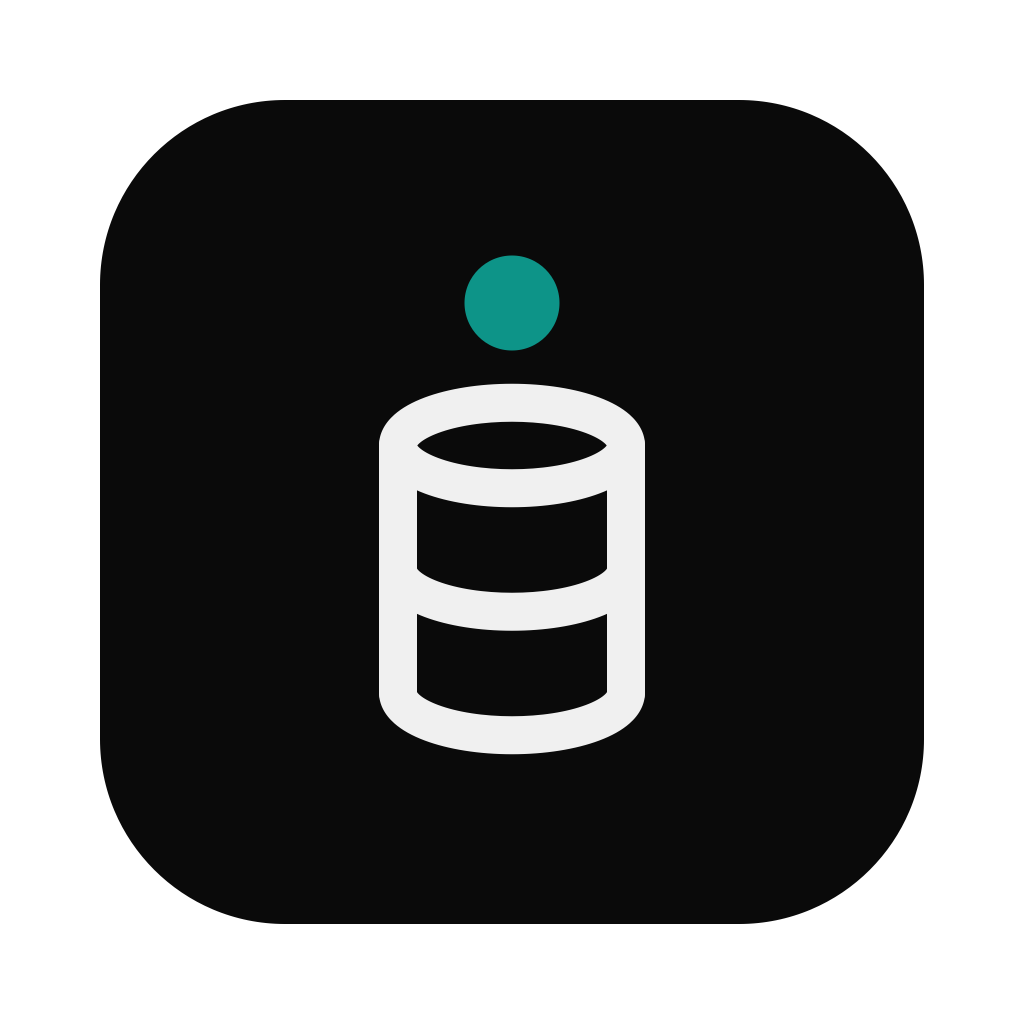
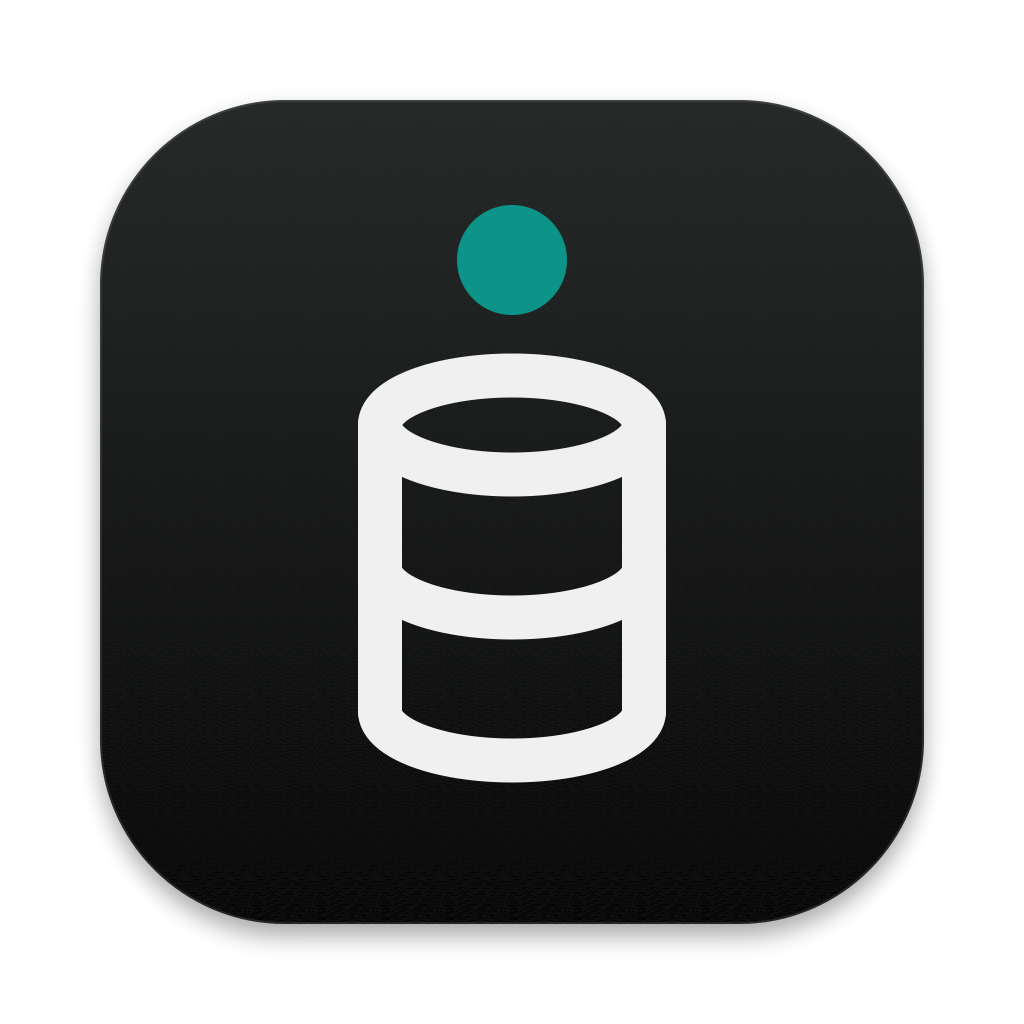
feat: 앱 아이콘을 깊이 있는 어두운 판으로 바꾼다

Changed region(s): [[0.0938, 0.0938, 0.9062, 0.9375]]

diff --git a/assets/brand/README.md b/assets/brand/README.md
@@ -1,6 +1,6 @@
 # i-db 브랜드
 
-마크는 데이터베이스 원통(위 타원 하나, 아래 호 둘)을 `i` 의 몸통으로, 그 위 점을 `i` 의 점으로 둔다. 점만 강조색이다. 글자표(wordmark)는 D2Coding Bold 로 쓴 `i-db` 이고 가운데 `-` 만 강조색이다. 장식(그라데이션·그림자·테두리 상자)은 쓰지 않는다.
+마크는 데이터베이스 원통(위 타원 하나, 아래 호 둘)을 `i` 의 몸통으로, 그 위 점을 `i` 의 점으로 둔다. 점만 강조색이다. 글자표(wordmark)는 D2Coding Bold 로 쓴 `i-db` 이고 가운데 `-` 만 강조색이다. 장식(그라데이션·그림자·테두리 상자)은 쓰지 않는다. 단, 앱 아이콘은 Dock 의 다른 앱과 어울리게 판에 옅은 명암과 그림자를 둔다.
 
 | 이름 | 값 | 쓰는 곳 |
 | --- | --- | --- |
@@ -16,7 +16,7 @@
 | `mark.svg` · `mark-dark.svg` | 마크 64×64(밝은·어두운 바탕). 선 굵기는 64 격자에서 4, 16px 에서 1px 이다 |
 | `wordmark.svg` · `wordmark-dark.svg` | 글자표. D2Coding Bold 윤곽이라 글꼴이 없어도 같다 |
 | `lockup.svg` · `lockup-dark.svg` | 마크 + 글자표 가로 묶음(README 머리) |
-| `app-icon.svg` | macOS 앱 아이콘 원본 1024. 824 둥근 사각(반지름 185) 위에 마크. `packaging/macos/AppIcon.png` 는 이것을 1024px 로 그린 것이다 |
+| `app-icon.svg` | macOS 앱 아이콘 원본 1024. 824 둥근 사각(반지름 185)에 위아래로 옅은 명암(#262a29→#0a0a0a)·가장자리 1px 빛·아래 그림자를 두고 마크를 키워 얹는다. `packaging/macos/AppIcon.png` 는 이것을 1024px(투명 바탕)로 그린 것이다 |
 | `mark-body.svg` · `mark-dot.svg` | GUI 가 마크를 두 색으로 겹쳐 그리는 단색 조각(GPUI 의 svg 는 한 색으로만 칠한다) |
 
 마크 둘레에는 마크 높이의 1/4 만큼 비워 둔다. 마크를 늘이거나 돌리거나 색을 바꾸지 않는다. 16px 보다 작게 쓰지 않는다.
